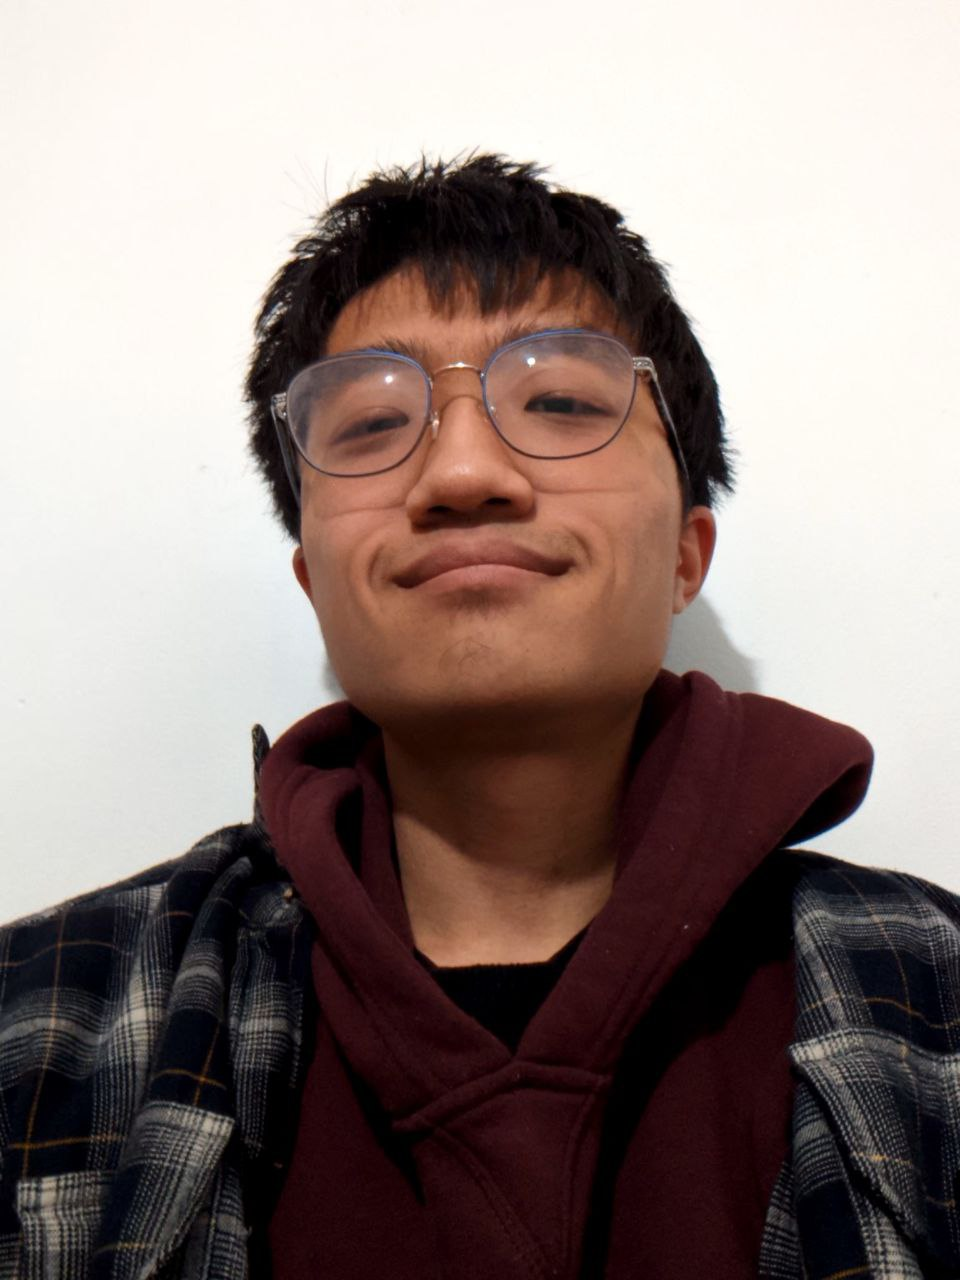
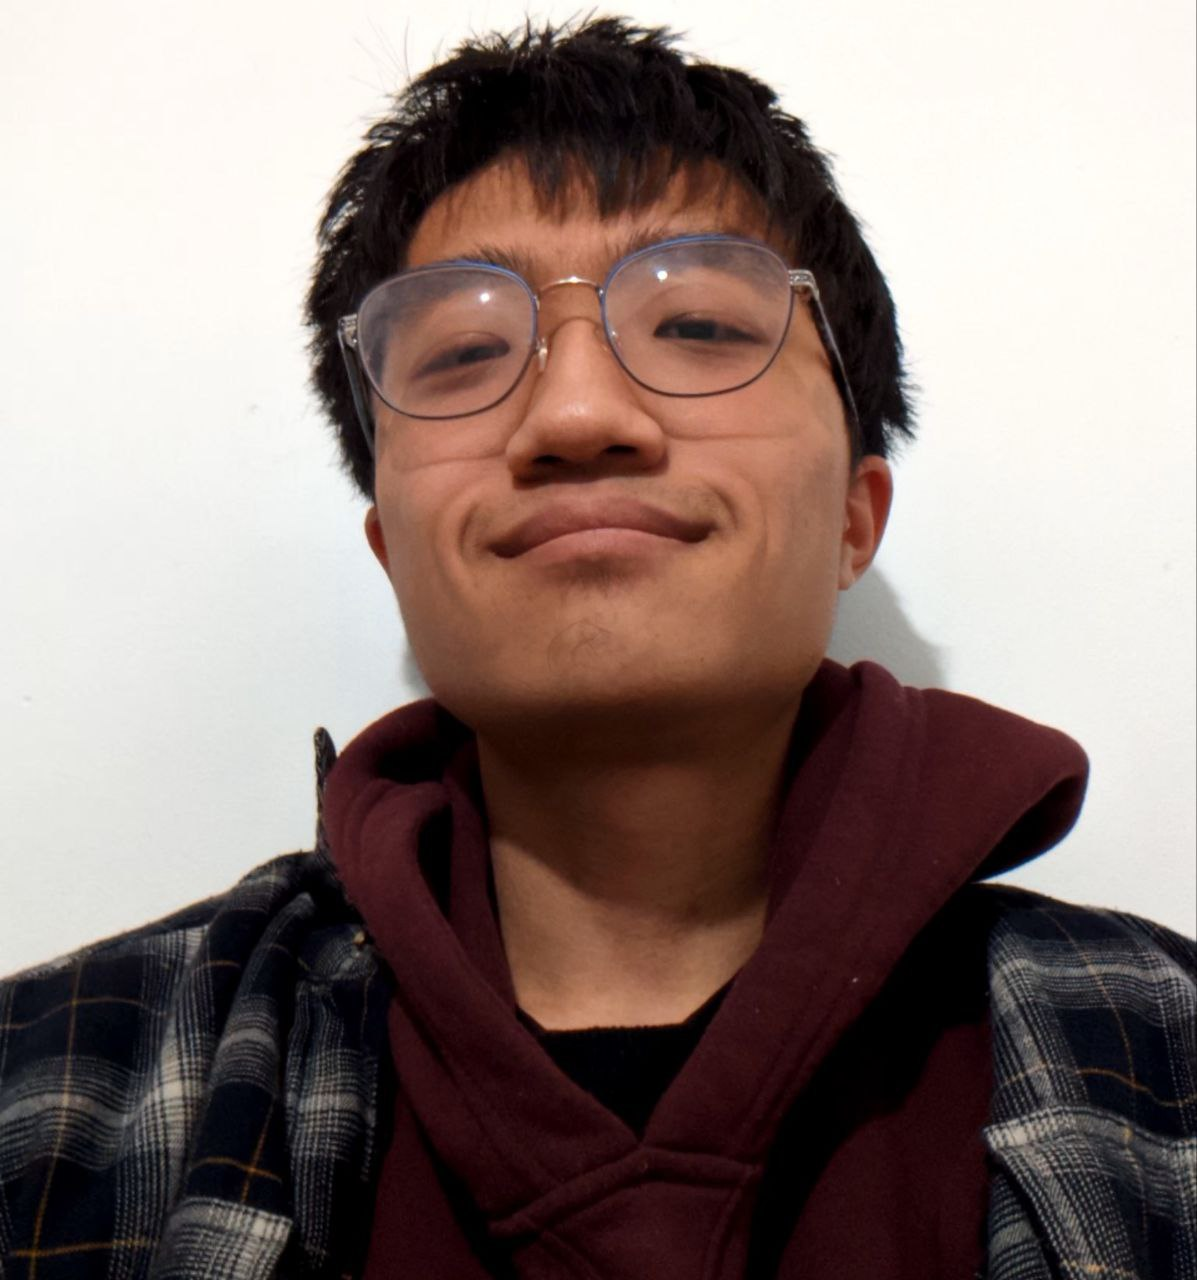
update headshot

diff --git a/pages/index.js b/pages/index.js
@@ -21,7 +21,7 @@ export default function Home() {
       "🎵 怎么爱你都不嫌多 🎵",
       "有你相伴这一路 多么多么自由",
       "If the Sun refuses to shine, we will be the Sun.",
-      "My whiskey neat, my coffee black, and my bed at three",
+      "Whiskey neat, Coffee black, Bed at three",
       "I hold it true, whate'er befall; I feel it, when I sorrow most...",
     ];
     const randInd = Math.floor(Math.random() * quotes.length);
@@ -43,8 +43,8 @@ export default function Home() {
             priority
             src="/images/headshot.jpeg"
             className={utilStyles.borderCircle}
-            height={164}
-            width={164}
+            height={175}
+            width={165}
             alt="Franklin Yin"
           />
         </Fade>
